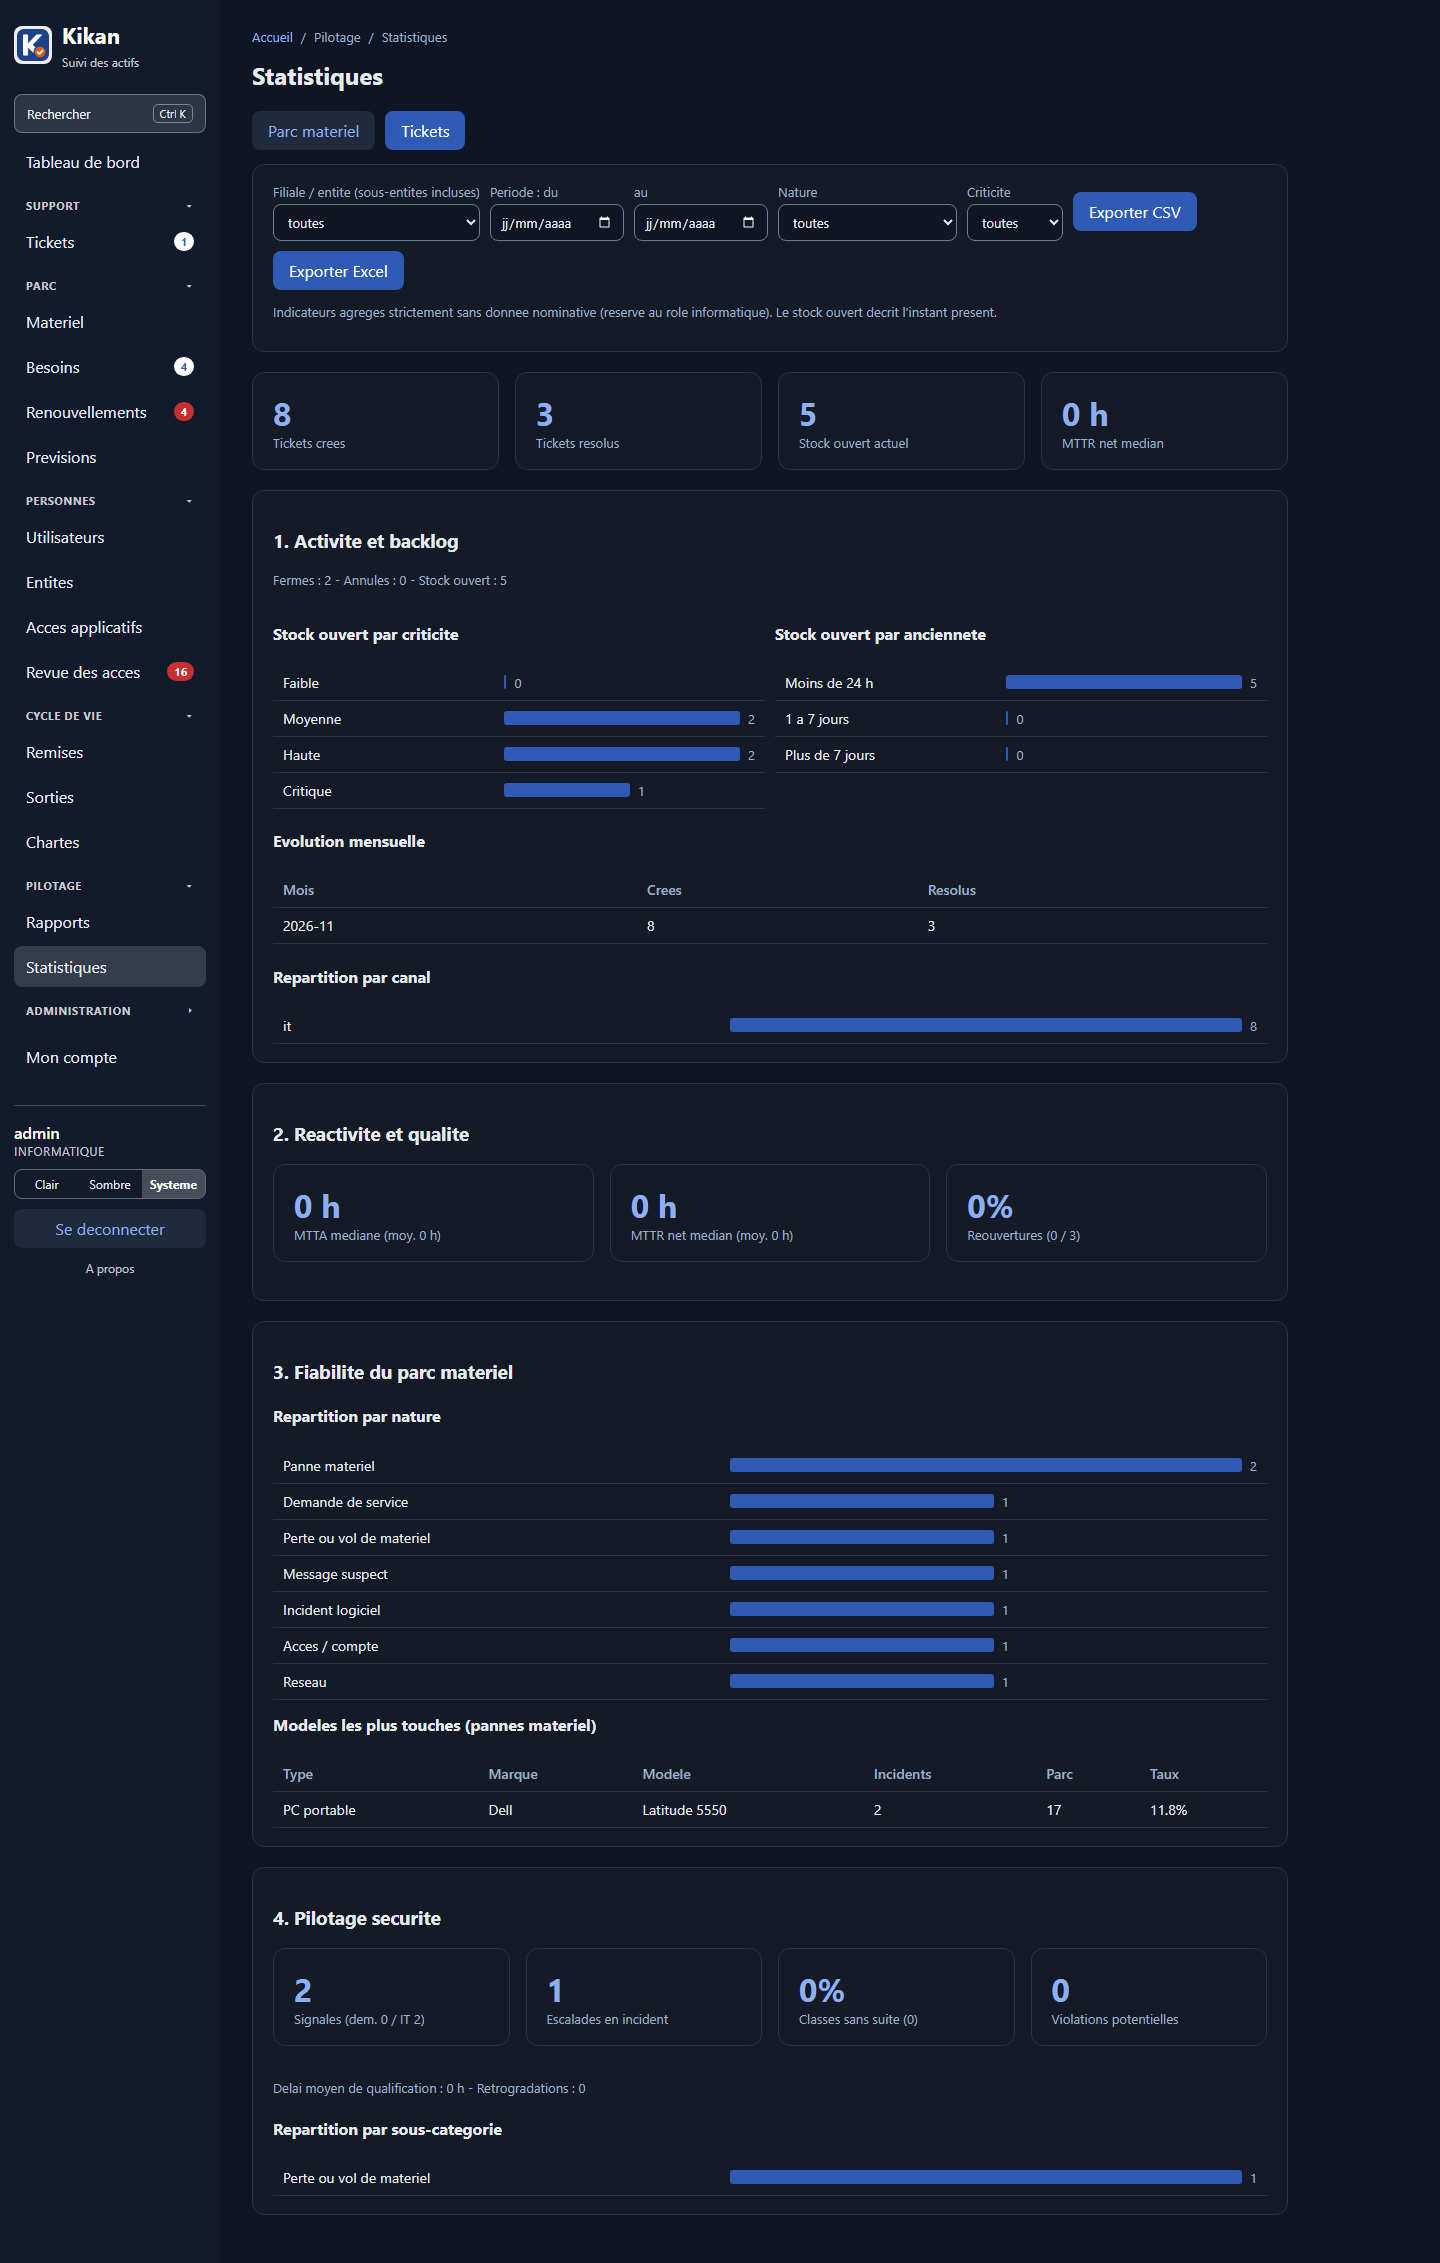
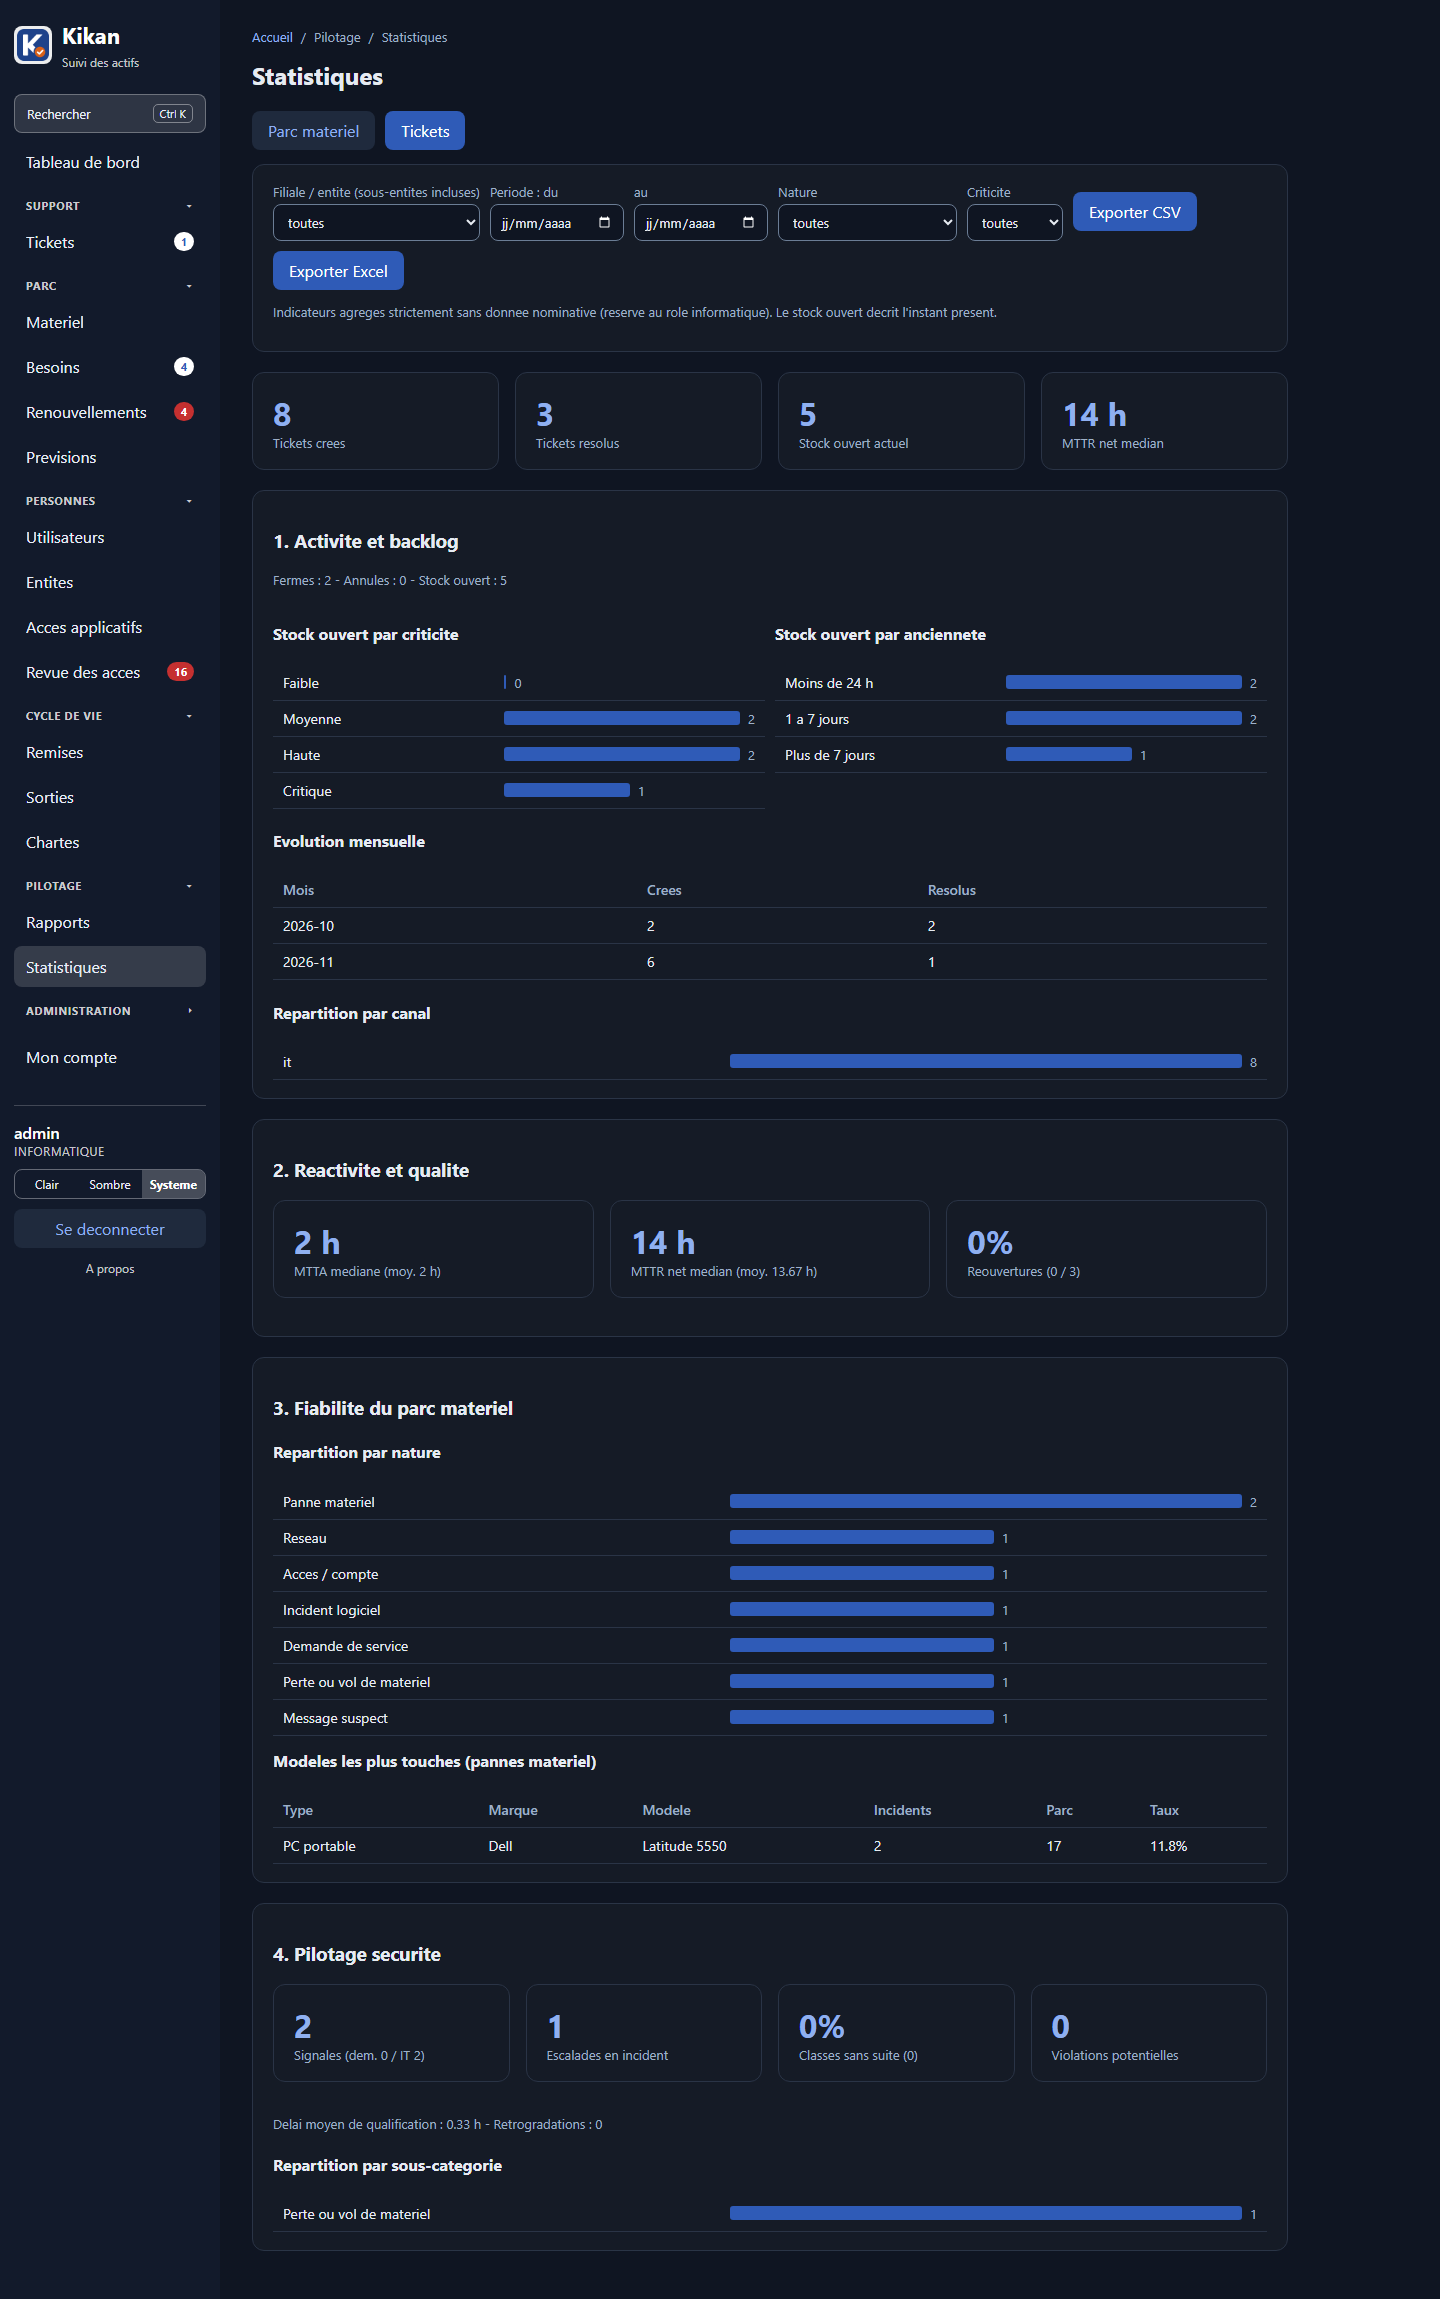
docs(captures): etalement dates demo_data.py, CHANGELOG PR #202 et 12 captures v0.9 mises a jour

diff --git a/scripts/demo_data.py b/scripts/demo_data.py
@@ -412,8 +412,8 @@ def charger():
     need("piece jointe demo", call("POST", f"/tickets/{t3['id']}/pieces-jointes", token=token, raw=pj_body,
                                    headers={"Content-Type": f"multipart/form-data; boundary={pj_boundary}"}))
 
-    mk_ticket(2, "message_suspect", "haute", "Courriel suspect demandant une revalidation du mot de passe",
-              "Message recu d'une adresse externe imitant le support informatique. Aucun lien clique.", signaler_securite=True)
+    t4 = mk_ticket(2, "message_suspect", "haute", "Courriel suspect demandant une revalidation du mot de passe",
+                   "Message recu d'une adresse externe imitant le support informatique. Aucun lien clique.", signaler_securite=True)
 
     t5 = mk_ticket(3, "incident_logiciel", "moyenne", "Erreur d'export PDF dans l'ERP Gestion",
                    "Le bouton d'export mensuel renvoie une erreur de delai depasse.")
@@ -440,7 +440,54 @@ def charger():
     set_statut(t8["id"], "resolu")
     set_statut(t8["id"], "ferme")
 
-    log("Tickets : 8 tickets de demonstration (dont 1 incident securite avec piece jointe et 1 signalement a qualifier) + 1 compte portail demandeur")
+    # Etale les horodatages des tickets de demonstration sur ~2 mois pour des MTTA/MTTR,
+    # anciennetes de stock et evolutions mensuelles realistes dans Statistiques > Tickets.
+    from datetime import datetime, timezone
+    from sqlmodel import Session, select
+    from app.db import engine
+    from app.models import Ticket, TicketComment, TicketSecurityDetail
+    now_dt = datetime.now(timezone.utc).replace(tzinfo=None)
+    calendrier = {
+        t8["id"]: (timedelta(days=52), timedelta(hours=2), timedelta(hours=18), timedelta(hours=26), None),
+        t7["id"]: (timedelta(days=34), timedelta(hours=1), timedelta(hours=9), timedelta(hours=24), None),
+        t6["id"]: (timedelta(days=19), timedelta(hours=3), timedelta(hours=14), None, None),
+        t5["id"]: (timedelta(days=11), timedelta(hours=4), None, None, None),
+        t2["id"]: (timedelta(days=4), timedelta(hours=2), None, None, timedelta(hours=5)),
+        t1["id"]: (timedelta(days=3), timedelta(hours=1, minutes=30), None, None, None),
+        t3["id"]: (timedelta(hours=8), timedelta(minutes=30), None, None, None),
+        t4["id"]: (timedelta(hours=3), None, None, None, None),
+    }
+    with Session(engine) as s:
+        for tid, (age, d_rep, d_res, d_fer, d_att) in calendrier.items():
+            tk = s.get(Ticket, tid)
+            if not tk:
+                continue
+            cree = now_dt - age
+            tk.cree_le = cree
+            tk.premiere_reponse_le = (cree + d_rep) if d_rep else None
+            tk.resolu_le = (cree + d_res) if d_res else None
+            tk.ferme_le = (cree + d_fer) if d_fer else None
+            tk.en_attente_depuis = (cree + d_att) if d_att else None
+            dernier = tk.ferme_le or tk.resolu_le or tk.en_attente_depuis or tk.premiere_reponse_le or cree
+            tk.maj_le = dernier
+            tk.maj_publique_le = dernier
+            s.add(tk)
+            comms = s.exec(select(TicketComment).where(TicketComment.ticket_id == tid).order_by(TicketComment.id)).all()
+            for idx_c, cm in enumerate(comms):
+                cm.cree_le = (cree + (d_rep or timedelta(minutes=30)) + timedelta(minutes=15 * idx_c))
+                s.add(cm)
+            sec = s.get(TicketSecurityDetail, tid)
+            if sec:
+                sec.signale_le = cree
+                if sec.qualifie_le:
+                    sec.qualifie_le = cree + timedelta(minutes=20)
+                    sec.qualification_sec = 1200
+                if sec.escalade_le:
+                    sec.escalade_le = cree + timedelta(minutes=20)
+                s.add(sec)
+        s.commit()
+
+    log("Tickets : 8 tickets de demonstration etales sur 2 mois (dont 1 incident securite avec piece jointe et 1 signalement a qualifier) + 1 compte portail demandeur")
 
     log("")
     log("Jeu de demonstration charge : 52 salaries, 6 entites, 6 applications, 77 materiels, 8 tickets, des remises et restitutions signees (PDF scelles).")

diff --git a/CHANGELOG.md b/CHANGELOG.md
@@ -12,6 +12,9 @@ détaillée est dans [SPEC.md](SPEC.md) (§13).
   - **Route `GET /tickets/materiel-salarie/{user_id}`** : réservée au rôle `informatique` (`403` pour `rh`, `lecture`, `demandeur` ; `404` si salarié inexistant), renvoie uniquement les actifs actuellement affectés au salarié sans donnée personnelle superflue.
   - **Interface IT (`frontend/src/pages/Tickets.jsx`)** : lorsqu'un salarié est sélectionné, le menu *Matériel concerné* propose uniquement ses actifs affectés par défaut, avec une case explicite *Autre matériel (hors affectation)* pour rouvrir tout le parc et réinitialisation automatique du matériel au changement de salarié.
 
+### Corrigé
+- **Formatage des dates et libellés de statuts (`frontend/src/format.js`, PR `#202`)** : affichage des horodatages en `JJ/MM/AAAA HH:MM` (portail *Mes tickets*, *Mon matériel*, échanges des tickets) et des dates en `JJ/MM/AAAA` (*Tableau de bord*), avec libellés lisibles pour les statuts de tickets (`Nouveau`, `En cours`, `En attente`, `Résolu`, `Fermé`, `Annulé`), la criticité, la sécurité, le canal et les statuts salarié (`En départ`, `Sorti`).
+
 ## [0.9.1-rc.1] - 2026-11-25
 
 **Pré-version corrective 0.9.1-rc.1 : à essayer avant la 0.9.1.** **Aucune nouvelle migration de base de données** par rapport à la `0.9.0` (alignement des modèles SQLAlchemy/SQLModel avec les migrations `0025` à `0030` existantes et intégration d'`alembic check` à la CI). **Faites une sauvegarde avant** ([SAUVEGARDE.md](docs/SAUVEGARDE.md)). Changer `KIKAN_VERSION` dans `.env` pour `0.9.1-rc.1`, puis `docker compose pull` et `docker compose up -d --no-build` ; les quatre images ensemble.
